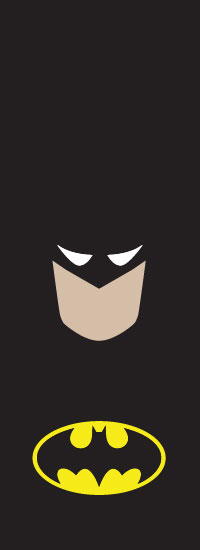
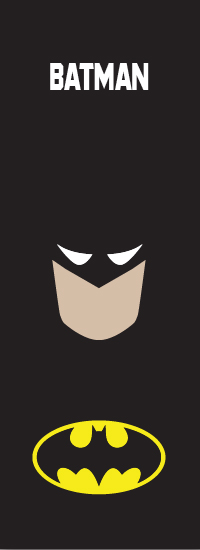
added google fonts, updated home page images

diff --git a/css/style.css b/css/style.css
@@ -1,3 +1,19 @@
+/* Fonts */
+@import url('https://fonts.googleapis.com/css?family=Exo:800|Open+Sans');
+
+/* Universals */
+h1 {
+    font-family: 'Exo', sans-serif;
+}
+
+h3 {
+    font-family: 'Exo', sans-serif;
+}
+
+p {
+    font-family: 'Open Sans', sans-serif;
+}
+
 /* Header Section */
 
 body {
@@ -44,7 +60,7 @@ nav>ul>li {
 nav>ul>li>a {
     text-decoration: none;
     color: #0078f0;
-    font-family: futura;
+    font-family:  'Exo', sans-serif;
     font-weight: bold;
     padding: 5px 10px;
     border-radius: 5px 5px 0px 0px;
@@ -69,7 +85,9 @@ nav>ul>li>a:hover {
     background-color: #fff;
     margin: 0px auto;
     width: 1200px;
-    /*background-image: url("../img/jl_background.jpg");*/
+    background-image: url("../img/jl_background.jpg");
+    background-size: contain;
+
 }
 
 div>span>a>img {
